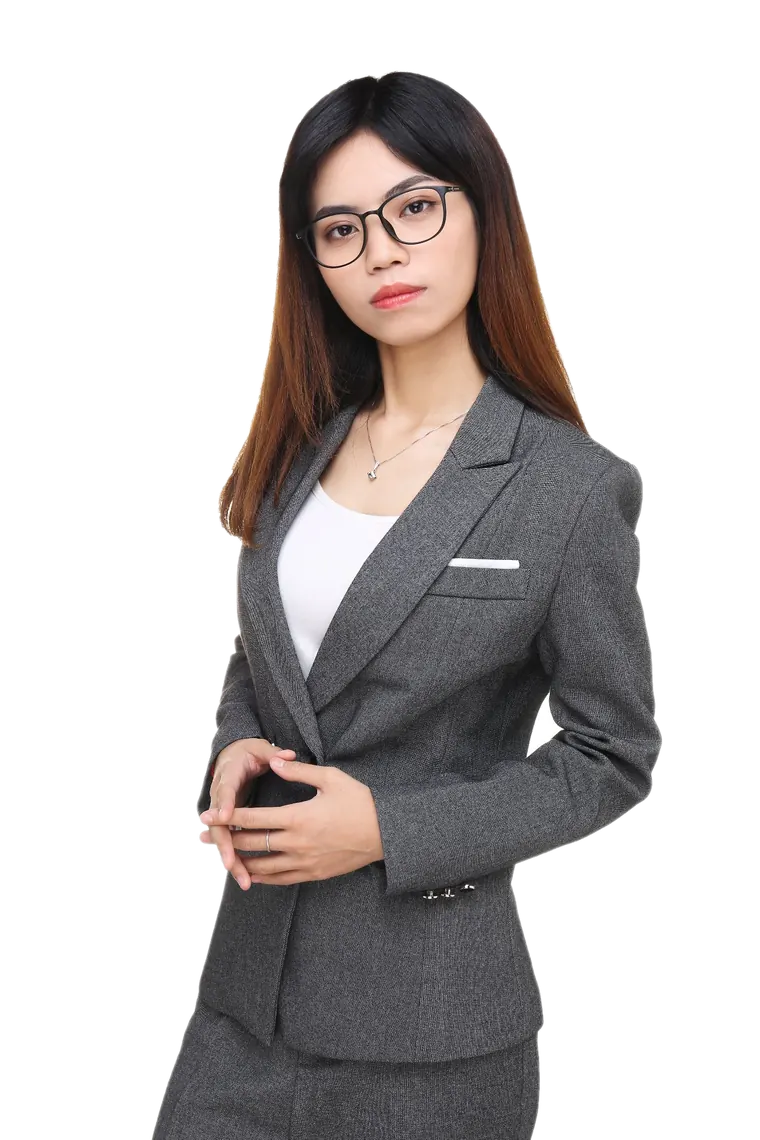
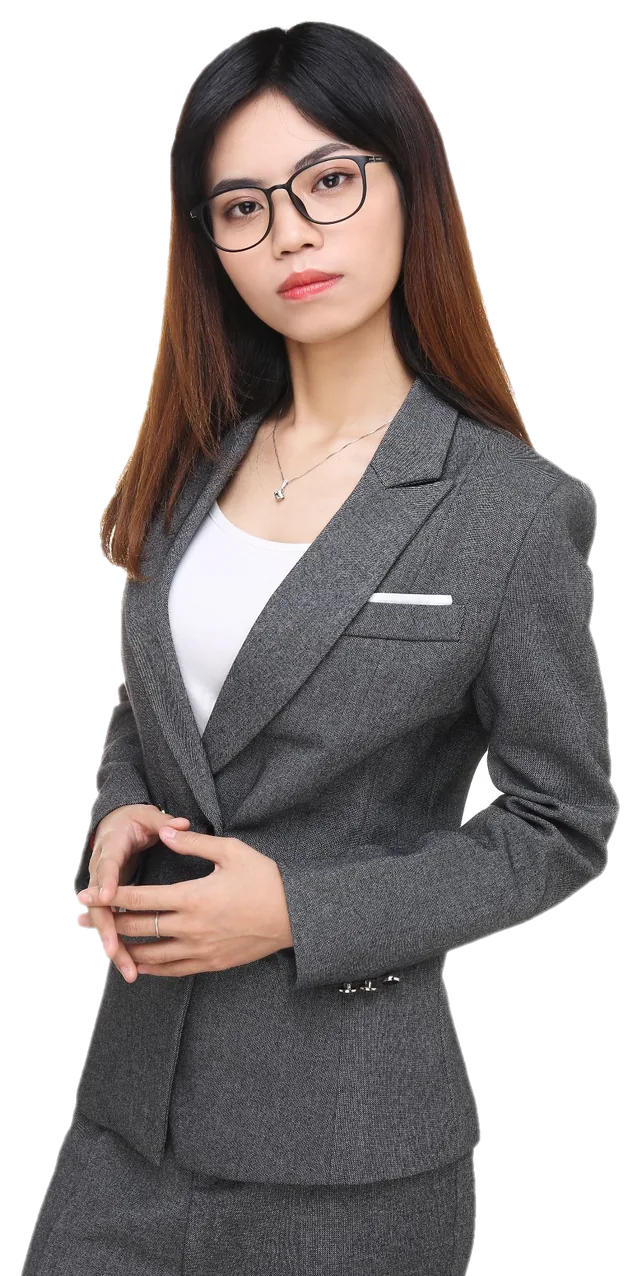
fix(about, commercial-ops, portrait): mobile embed portrait, inline mobile iframe, clean edges
- AboutTab: on mobile (<lg) show small inline portrait next to name instead of a full-screen portrait block

- CommercialOpsLegalTab: set mobileFullscreen=false so mobile opens the iframe in-page instead of a 'full-screen open' prompt

- Regenerate lin_qiongni_portrait_new.webp with flood-fill + morphological opening + feather; removes enclosed white holes and light halo, 144KB

diff --git a/src/components/AboutTab.tsx b/src/components/AboutTab.tsx
@@ -13,15 +13,23 @@ const PRINCIPLES = [
 
 export const AboutTab: React.FC<AboutTabProps> = ({ onExploreCases }) => (
   <div id="tab-about-content" className="lux-page py-5 sm:py-10">
-    <section className="grid gap-12 border-b border-[#D8D0C2] pb-16 lg:grid-cols-[0.78fr_1.22fr] lg:gap-20">
-      <motion.div initial={{ opacity: 0, y: 18 }} animate={{ opacity: 1, y: 0 }} className="relative max-w-md">
-        <div className="absolute -left-4 -top-4 h-20 w-20 border-l border-t border-[#B89F6B]/70" />
-        <div className="aspect-[4/5] overflow-hidden shadow-[0_28px_70px_rgba(28,31,38,.14)]">
-          <img src={PERSONAL_INFO.avatarUrl} alt="职业肖像" className="h-full w-full object-cover" />
-        </div>
-        <div className="mt-5 flex items-end justify-between border-b border-[#B89F6B]/50 pb-4">
-          <div><p className="font-serif text-xl">{PERSONAL_INFO.name}</p><p className="mt-1 text-[10px] uppercase tracking-[.18em] text-[#8A857C]">{PERSONAL_INFO.englishName}</p></div>
-          <span className="text-xs text-[#8D754B]">Legal Counsel</span>
+    <section className="grid gap-8 border-b border-[#D8D0C2] pb-12 lg:grid-cols-[0.78fr_1.22fr] lg:gap-20 lg:pb-16">
+      <motion.div initial={{ opacity: 0, y: 18 }} animate={{ opacity: 1, y: 0 }} className="relative lg:max-w-md">
+        <div className="absolute -left-4 -top-4 hidden h-20 w-20 border-l border-t border-[#B89F6B]/70 lg:block" />
+        {/* 手机端：人物以紧凑头像内嵌在「关于我」内容顶部；桌面端恢复大图 + 姓名卡 */}
+        <div className="flex items-start gap-4 sm:gap-5 lg:block">
+          <div className="aspect-[4/5] w-28 shrink-0 overflow-hidden shadow-[0_28px_70px_rgba(28,31,38,.14)] sm:w-32 lg:w-auto lg:max-w-md">
+            <img src={PERSONAL_INFO.avatarUrl} alt="职业肖像" className="h-full w-full object-cover" />
+          </div>
+          <div className="flex-1 lg:mt-5">
+            <div className="flex flex-col lg:flex-row lg:items-end lg:justify-between lg:border-b lg:border-[#B89F6B]/50 lg:pb-4">
+              <div>
+                <p className="font-serif text-xl">{PERSONAL_INFO.name}</p>
+                <p className="mt-1 text-[10px] uppercase tracking-[.18em] text-[#8A857C]">{PERSONAL_INFO.englishName}</p>
+              </div>
+              <span className="mt-2 inline-block text-xs text-[#8D754B] lg:mt-0">Legal Counsel</span>
+            </div>
+          </div>
         </div>
       </motion.div>
 

diff --git a/src/components/CommercialOpsLegalTab.tsx b/src/components/CommercialOpsLegalTab.tsx
@@ -15,8 +15,7 @@ export const CommercialOpsLegalTab: React.FC<{ darkMode?: boolean }> = ({ darkMo
     src={`/commercial-ops/index.html?v=${IFRAME_V}`}
     title="商业运营法务 · 高端商业综合体商业租赁合同审核指引"
     darkMode={darkMode}
-    // 内容为长文 + 左侧固定目录 + 右侧本页目录，移动端 iframe 内滚动不可靠，
-    // 窄屏改为引导全屏打开子站（桌面端行为不变）。
-    mobileFullscreen
+    // 桌面端与手机端均在当前页内嵌打开，不再提示「全屏打开/另行页面」。
+    mobileFullscreen={false}
   />
 );
